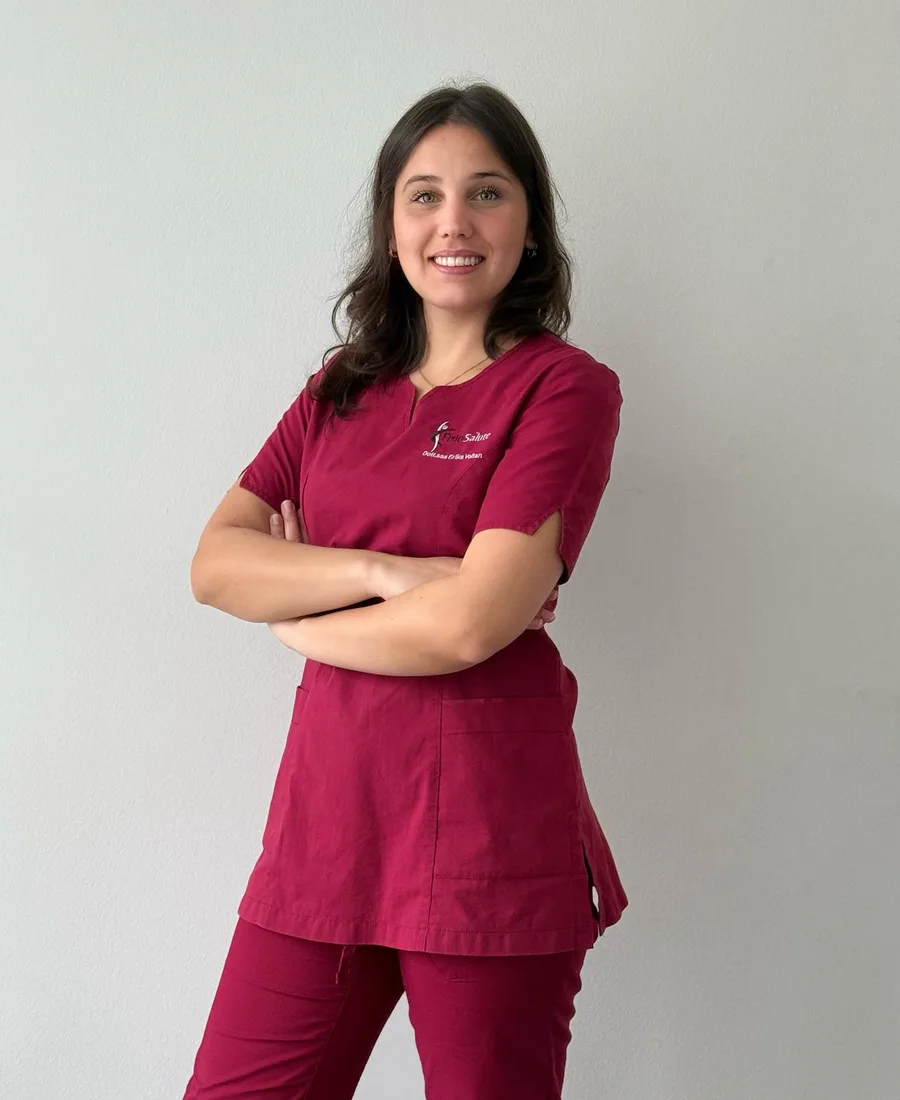
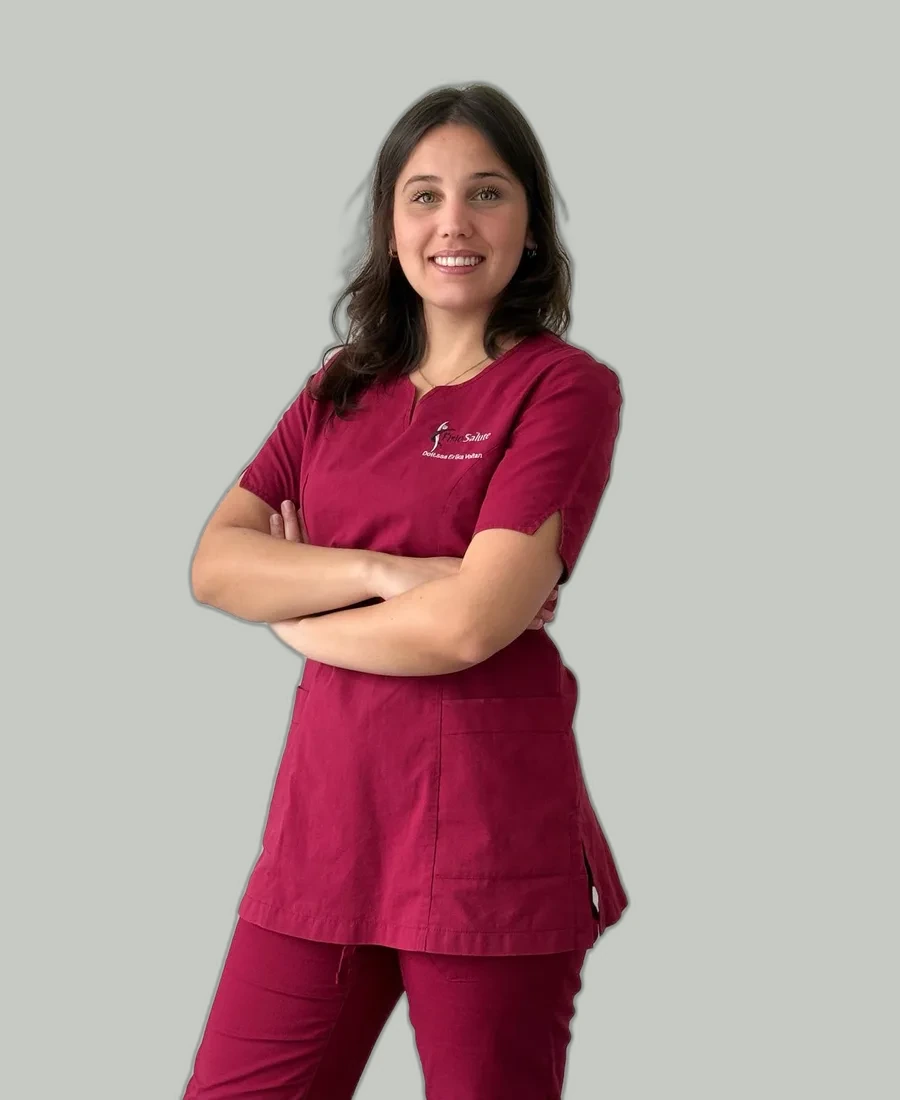
Aggiorna contenuti e immagini dello staff

diff --git a/src/styles/global.css b/src/styles/global.css
@@ -97,6 +97,7 @@ footer{padding:55px clamp(24px,8vw,128px) 30px;background:linear-gradient(100deg
 .care-circle strong{left:50%;top:50%;width:112px;height:112px;transform:translate(-50%,-50%);border-radius:50%;background:var(--sand);border-color:var(--sand);color:var(--deep);font-size:18px}
 .care-circle-physio{left:50%;top:0;width:142px;min-height:66px;transform:translate(-50%,-35%)}
 .care-circle-doctors{right:0;top:50%;width:142px;min-height:66px;transform:translate(35%,-50%)}
+.care-circle-learning{left:0;top:50%;width:156px;min-height:66px;transform:translate(-35%,-50%)}
 .care-circle-recovery{left:50%;bottom:0;width:142px;min-height:66px;transform:translate(-50%,35%)}
 .studio-highlights-grid img{height:92px;border-radius:2px;border-width:2px}
 .news-section{display:flex;align-items:center;justify-content:space-between;gap:60px;background:#fff}.news-section>div{max-width:720px}.news-section>div>p:last-child{color:#56635f}
